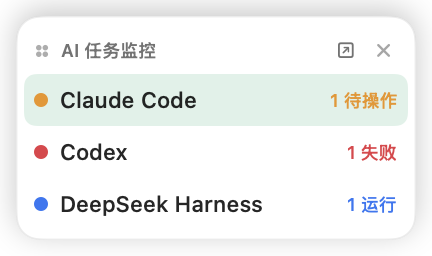
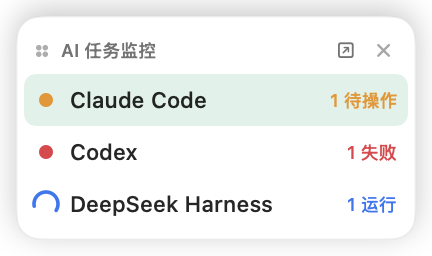
docs: 补充完整使用说明；style: 浮窗运行中改蓝色 loading 圆环

Changed region(s): [[0.0602, 0.7188, 0.6319, 0.8438], [0.0602, 0.3438, 0.4815, 0.4375], [0.0602, 0.5625, 0.331, 0.625]]

diff --git a/Sources/AIMonitor/UI/CompactView.swift b/Sources/AIMonitor/UI/CompactView.swift
@@ -106,9 +106,20 @@ struct CompactRowItem: View {
 
     var body: some View {
         HStack(spacing: 6) {
-            Circle()
-                .fill(isIdle ? Color.black.opacity(0.28) : Theme.color(for: summary.color))
-                .frame(width: 7, height: 7)
+            Group {
+                if isIdle {
+                    Circle()
+                        .fill(Color.black.opacity(0.28))
+                        .frame(width: 7, height: 7)
+                } else if summary.color == .running {
+                    LoadingRing(size: 12, lineWidth: 1.8)
+                } else {
+                    Circle()
+                        .fill(Theme.color(for: summary.color))
+                        .frame(width: 7, height: 7)
+                }
+            }
+            .frame(width: 12, height: 12)
 
             Text(row.provider)
                 .font(.system(size: 11, weight: .medium))

diff --git a/Sources/AIMonitor/UI/Components.swift b/Sources/AIMonitor/UI/Components.swift
@@ -22,6 +22,9 @@ struct StatusIcon: View {
 
 /// 运行中的蓝色 loading 环
 struct LoadingRing: View {
+    var size: CGFloat = 14
+    var lineWidth: CGFloat = 2.2
+
     @State private var rotating = false
 
     var body: some View {
@@ -29,9 +32,9 @@ struct LoadingRing: View {
             .trim(from: 0.10, to: 0.72)
             .stroke(
                 Theme.running,
-                style: StrokeStyle(lineWidth: 2.2, lineCap: .round)
+                style: StrokeStyle(lineWidth: lineWidth, lineCap: .round)
             )
-            .frame(width: 14, height: 14)
+            .frame(width: size, height: size)
             .rotationEffect(.degrees(rotating ? 360 : 0))
             .animation(
                 .linear(duration: 0.9).repeatForever(autoreverses: false),

diff --git a/README.md b/README.md
@@ -129,15 +129,44 @@ dist/AI Monitor.app
 
 双击打开即可。想放到「应用程序」里，把整个 `AI Monitor.app` 拖到 `/Applications` 就行（首次启动前建议先退出正在运行的旧版本）。
 
-首次启动会：
+首次启动会走初始化流程，具体步骤见下面的「使用说明」。
 
-1. 自动扫描本机 AI（约 1 秒）
-2. 列出可监控项，默认勾选 Claude Code / Codex / DeepSeek Harness（有数据的才会勾上）
-3. 点「开始监控」后显示小浮窗，并弹出系统通知授权
+## 使用说明
 
-允许通知后，任务完成时会有系统横幅 + 提示音；如果拒绝授权或系统通知被关闭，顶部的完成提示条、主界面横幅、浮窗高亮和菜单栏计数仍然可用。需要重新开启通知时，到「系统设置 → 通知 → AI 任务监控」里打开即可。
+### 1. 第一次启动
 
-## 菜单栏
+1. 双击打开 `AI Monitor.app`，菜单栏出现 ✨ 图标，同时弹出初始化窗口
+2. 应用自动扫描本机可监控的 AI（约 1 秒）
+3. 勾选你想监控的 AI；默认勾选有数据的 Claude Code / Codex / DeepSeek Harness
+4. 点「开始监控」
+5. 系统询问通知权限：允许后任务完成会有系统横幅；拒绝也不影响使用
+6. 屏幕右上角出现小浮窗
+
+### 2. 小浮窗怎么用
+
+- 每个 AI 一行，只显示这个 AI 最需要关注的状态，不显示具体任务
+- 左侧图标：
+  - **蓝色旋转环** = 运行中
+  - **橙色手** = 需要操作（通常在等权限确认）
+  - **红色三角** = 失败
+  - **绿色对钩** = 已完成
+  - **灰色圆点** = 空闲
+- 按住任意一行或顶部标题即可拖动，位置会自动记住
+- 单击任意一行 → 打开主界面
+- 点右上角 × → 收起浮窗，应用继续在菜单栏运行
+- 有任务完成时，对应 AI 的那一行会短暂变绿
+
+### 3. 主界面怎么用
+
+入口：菜单栏 ✨ →「打开主界面」，或单击浮窗里的任意一行。
+
+- 任务按 AI 分组；每行显示任务标题、项目、状态、最后活跃时间
+- 顶部显示运行中 / 需要操作 / 失败 / 已完成的数量统计
+- `⌘R` 刷新，`⌘,` 打开设置
+- 关闭主界面不会退出应用；主界面打开时会在 Cmd+Tab 和 Dock 中出现
+- 有任务完成时，顶部会出现绿色横幅
+
+### 4. 菜单栏
 
 点击菜单栏的 ✨ 图标：
 
@@ -149,6 +178,40 @@ dist/AI Monitor.app
 - **静音通知**
 - **设置…**
 - **退出 AI Monitor**
+
+### 5. 完成提醒
+
+任务完成时会同时出现：
+
+1. 浮窗正上方的完成提示条（几秒后自动消失，点击打开主界面）
+2. 系统通知（如果你允许了通知权限）
+3. 主界面绿色横幅 + 对应 AI 行变绿
+4. 菜单栏未读计数
+
+如果系统通知没弹，到「系统设置 → 通知 → AI 任务监控」里确认已允许；即使关掉通知，其他三种提醒仍然有效。
+
+### 6. 修改监控哪些 AI
+
+菜单栏 ✨ →「设置…」（或主界面按 `⌘,`）：
+
+- 勾选 / 取消勾选 AI，点「完成」后立即生效
+- 取消勾选只是不再监控，不会删除任何会话数据
+- 新装了 Claude Code / Codex / DeepSeek Harness 后，重新打开设置即可看到
+
+### 7. 退出应用
+
+菜单栏 ✨ →「退出 AI Monitor」，或主界面按 `⌘Q`。
+
+关掉浮窗或主界面都只是隐藏窗口，不会退出应用。
+
+## 常见问题
+
+- **看不到某个 AI 的任务**：应用只读本地会话记录。先在对应工具里实际跑一个任务；仍看不到时，用 `--dump` 查看适配器识别结果，日志在 `~/Library/Logs/AIMonitor.log`
+- **状态显示“需要操作”但并没有人等我**：这是基于会话写入间隔的推断，不是 100% 精确；Claude Code 没有把权限弹窗写成独立事件
+- **通知不弹**：到「系统设置 → 通知 → AI 任务监控」允许通知；浮窗上方的完成提示条不受影响
+- **Cmd+Tab 找不到应用**：主界面或设置窗口打开时才会进入 Cmd+Tab；只显示浮窗时它是菜单栏应用
+- **浮窗不见了**：菜单栏 ✨ →「显示浮窗」
+- **系统要求**：macOS 14+；只支持本机当前用户的数据
 
 ## 开发与构建
 
